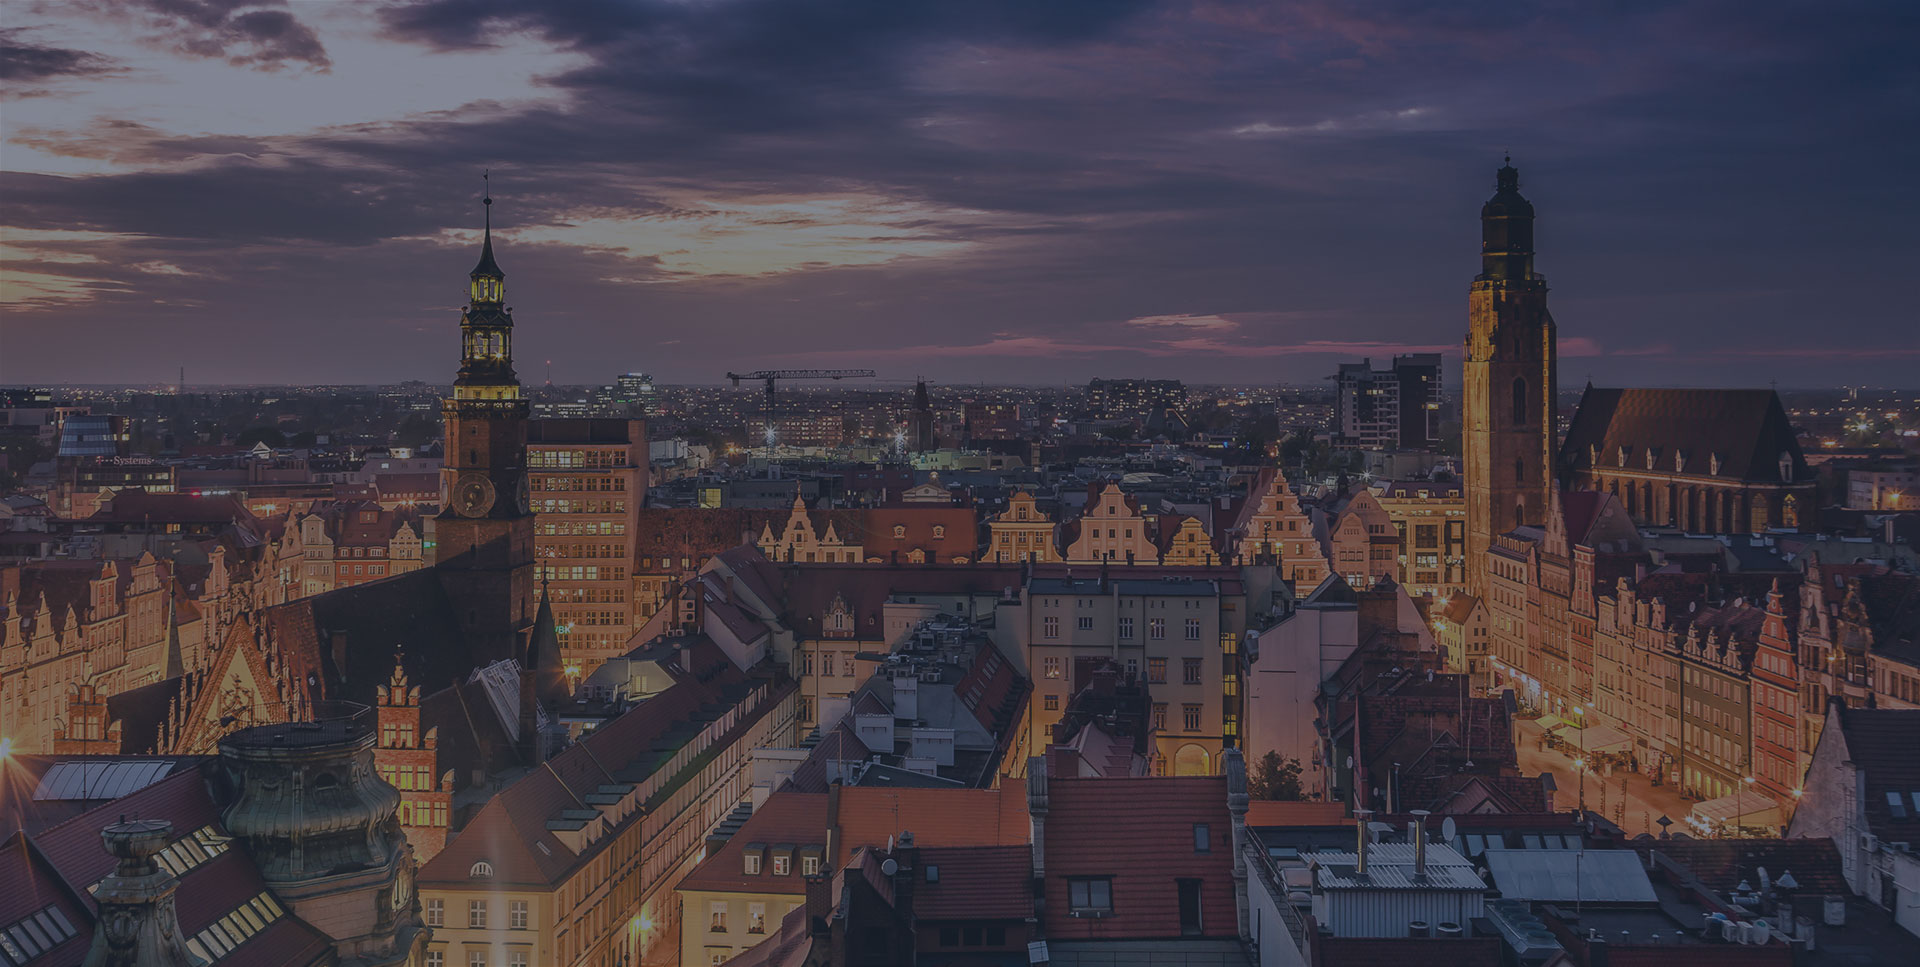
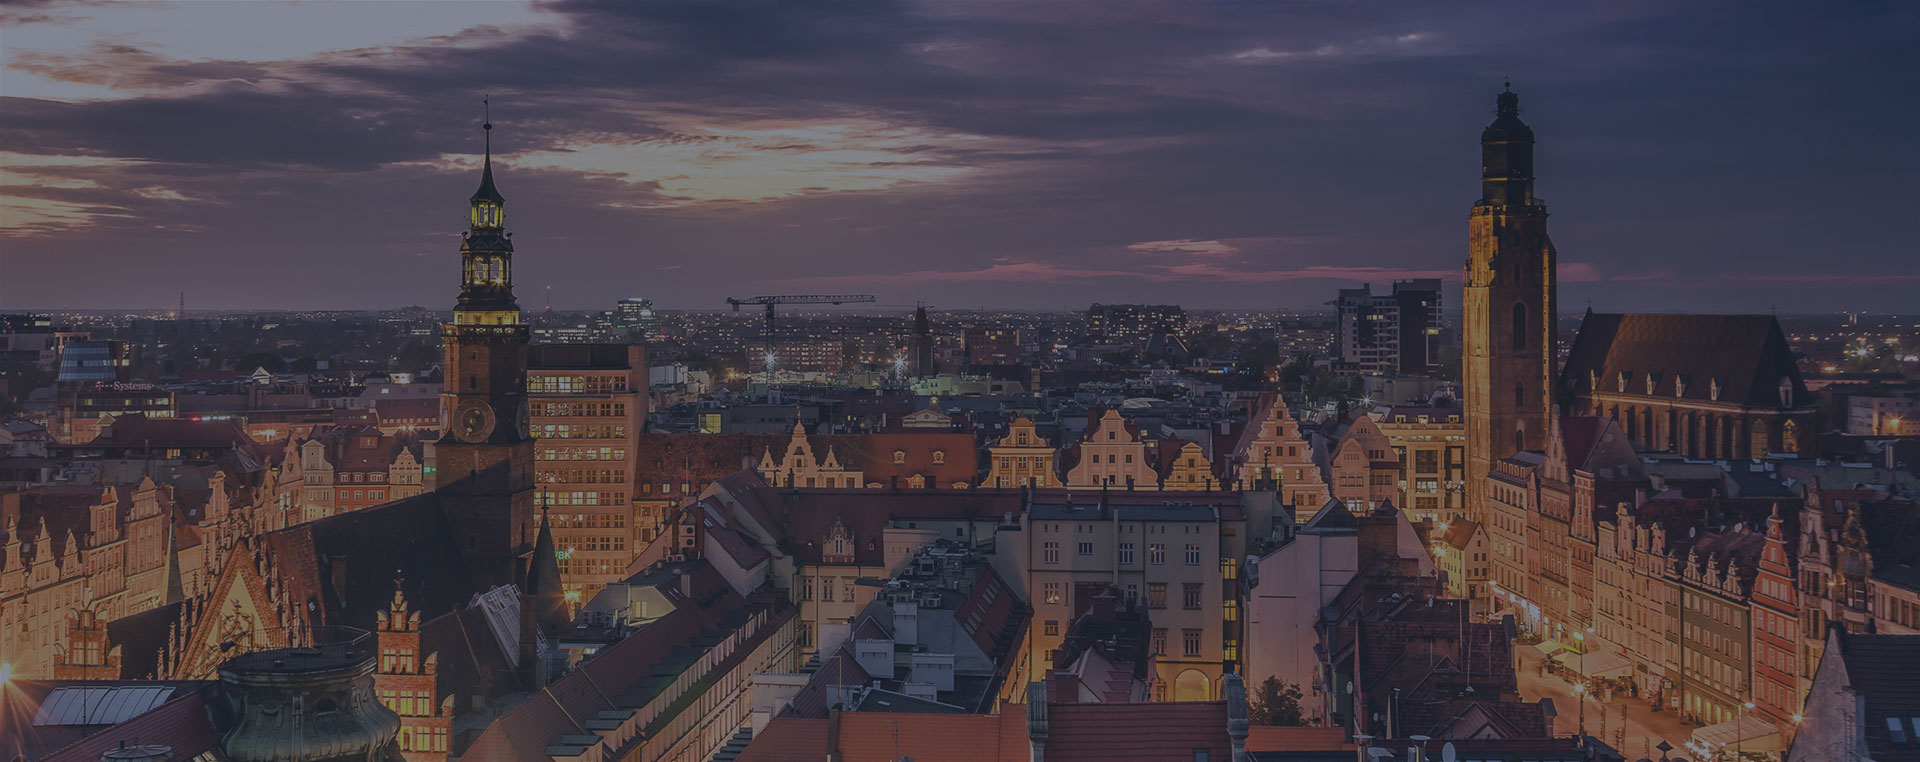
Background update

diff --git a/src/_styles/components/_hero-banner.sass b/src/_styles/components/_hero-banner.sass
@@ -2,21 +2,34 @@
   height: 560px
   text-align: center
   position: relative
-  background-size: cover
-  background-attachment: fixed
   background-repeat: no-repeat
-  background-position: center
+  background-position: -170px center
   background-image: url('../images/hero-banner.jpg')
   transform: translateZ(0)
 
-  @media #{$xlarge-up}
+  @media #{$medium-up}
+    background-position: center
+
+  @media #{$large-up}
     height: 660px
+
+  @media #{$xlarge-up}
+    height: 760px
+
+  @media only screen and (min-width: 1900px)
+    background-size: cover
 
   .post-section__button
     margin: 25px 0
 
 .hero-banner__content
-  padding-top: 120px
+  padding-top: 100px
+
+  @media #{$large-up}
+    padding-top: 120px
+
+  @media #{$xlarge-up}
+    padding-top: 150px
 
 .hero-banner__image
   display: block
